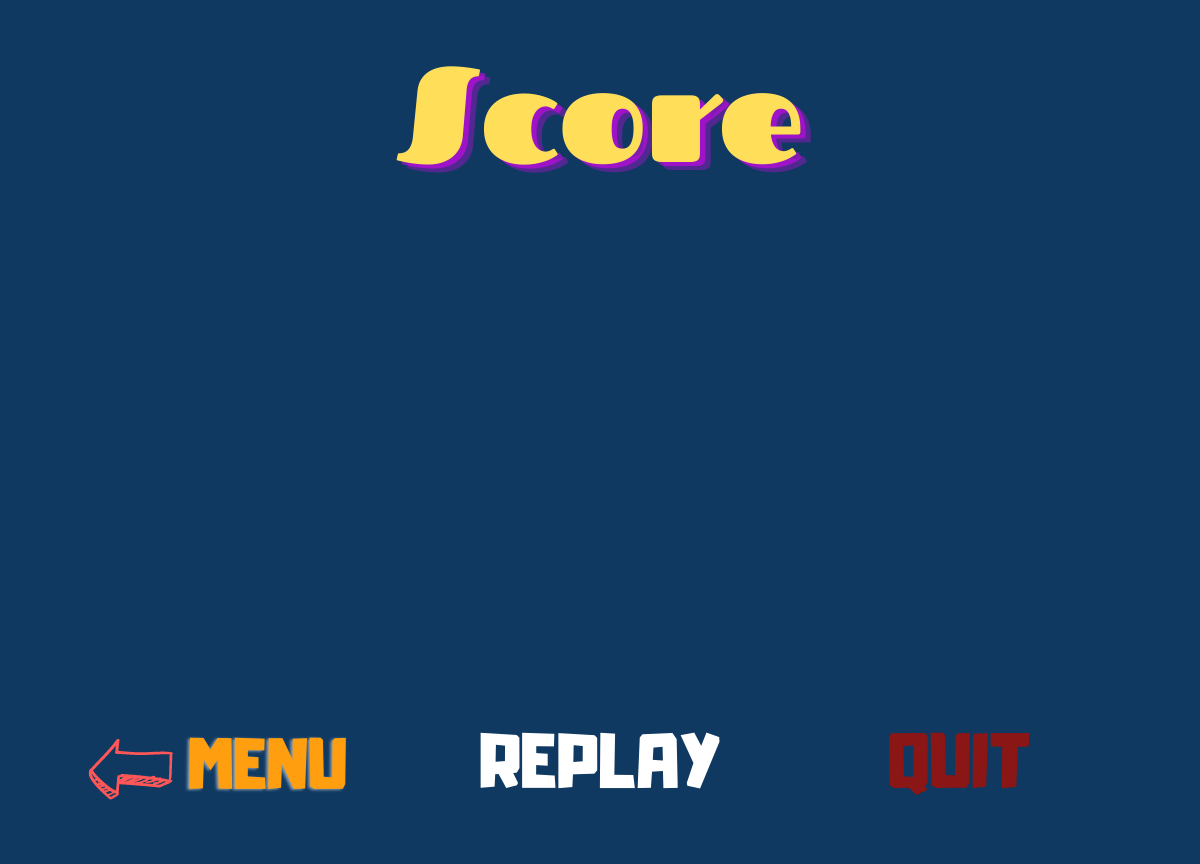
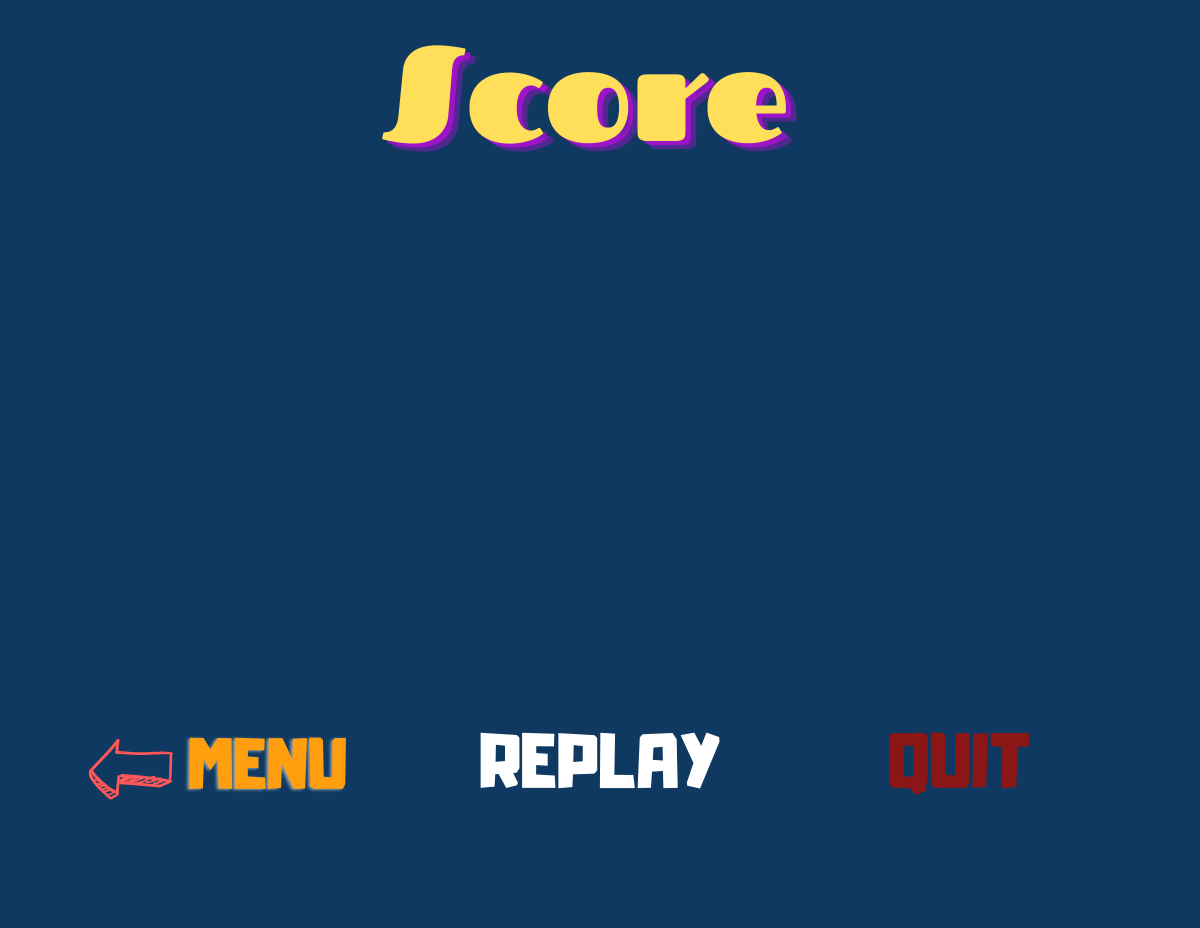
r

diff --git a/mainmenu.c b/mainmenu.c
@@ -594,9 +594,6 @@ void draw_select_map(SDL_Renderer* renderer)
     int back_x = 450;
     int back_y = 713; 
 
-    // todo : draw the files buttons
-
-
     SDL_RenderPresent(renderer);
     SDL_Event event;
     while (SDL_WaitEvent(&event)) {
@@ -618,7 +615,7 @@ void draw_select_map(SDL_Renderer* renderer)
                 draw_map(renderer); 
             }
             else if (x >= 0 && x <= 1200 &&
-             y >= 0 && y <= 864)
+             y >= 0 && y <= 928)
             {
                 SDL_SetRenderDrawColor(renderer,0,0,0,255);
                 Game* game = init_game(is_ai, difficulty,map_load);
@@ -649,8 +646,6 @@ void draw_select_map_menu(SDL_Renderer* renderer)
     int back_x = 450;
     int back_y = 713; 
 
-    // todo : draw the files buttons
-
 
     SDL_RenderPresent(renderer);
     SDL_Event event;
@@ -668,11 +663,11 @@ void draw_select_map_menu(SDL_Renderer* renderer)
             int x = event.button.x;
             int y = event.button.y;
             if (x >= back_x && x <= back_x + 300 &&
-                y >= back_y && y <= back_y + 60) {
+                y >= back_y && y <= back_y + 135) {
                 draw_menu(renderer); 
             }
             else if (x >= 0 && x <= 1200 &&
-             y >= 0 && y <= 864)
+             y >= 0 && y <= 928)
             {
                 //todo : function to put map in an array
             }
@@ -742,7 +737,7 @@ void draw_high_score(SDL_Renderer* renderer)
             int x = event.button.x;
             int y = event.button.y;
             if (x >= back_x && x <= back_x + 300 &&
-                y >= back_y && y <= back_y + 60) {
+                y >= back_y && y <= back_y + 135) {
                 draw_menu(renderer); 
             }
         }
@@ -918,7 +913,7 @@ int main() {
         "Pac-Cracked",
         SDL_WINDOWPOS_UNDEFINED,
         SDL_WINDOWPOS_UNDEFINED,
-        1200, 864,
+        1200, 928,
         SDL_WINDOW_SHOWN  
     );
 

diff --git a/play.c b/play.c
@@ -9,8 +9,6 @@
 #include "pacman_ai/search.h"
 
 #define TILE_SIZE 32
-#define TT '.'
-#define PP 'o'
 enum{HAUT,BAS,GAUCHE,DROITE};
 
 int score = 0;
@@ -124,8 +122,8 @@ void draw_game(SDL_Renderer* renderer,Game* game,int map_load)
 
     int map_x = 0;
     int map_y = 0;
-    int map_height = 928 ;
-    int map_width = 864 ;
+    int map_height = 864;
+    int map_width = 928 ;
     
     SDL_Rect map_rect = { map_x, map_y, map_height,map_width};
     SDL_RenderCopy(renderer, map_texture, NULL, &map_rect);
@@ -161,10 +159,8 @@ void draw_game(SDL_Renderer* renderer,Game* game,int map_load)
     char c; 
 
     while (game_over(game) == 0 && all_eaten(game) == 1){
-
-        
-               
-        position.x= (game->pacman->x*TILE_SIZE); //30
+    
+        position.x= (game->pacman->x*TILE_SIZE);//30
         position.y= (game->pacman->y*TILE_SIZE); //31
         SDL_RenderCopy(renderer, map_texture, NULL, &map_rect);
         SDL_RenderCopy(renderer, pac_texture, NULL, &position);
@@ -191,9 +187,7 @@ void draw_game(SDL_Renderer* renderer,Game* game,int map_load)
 
             }
         } 
-        
-        
-
+    
         SDL_RenderPresent(renderer);  
         
         if (game->is_ai != 1){
@@ -259,6 +253,7 @@ void draw_game(SDL_Renderer* renderer,Game* game,int map_load)
                     game->pacman->direction = Bellman(game, pos);
                     break;
             }
+            sleep(0.1);
             
             state = update(game);
 		} 
